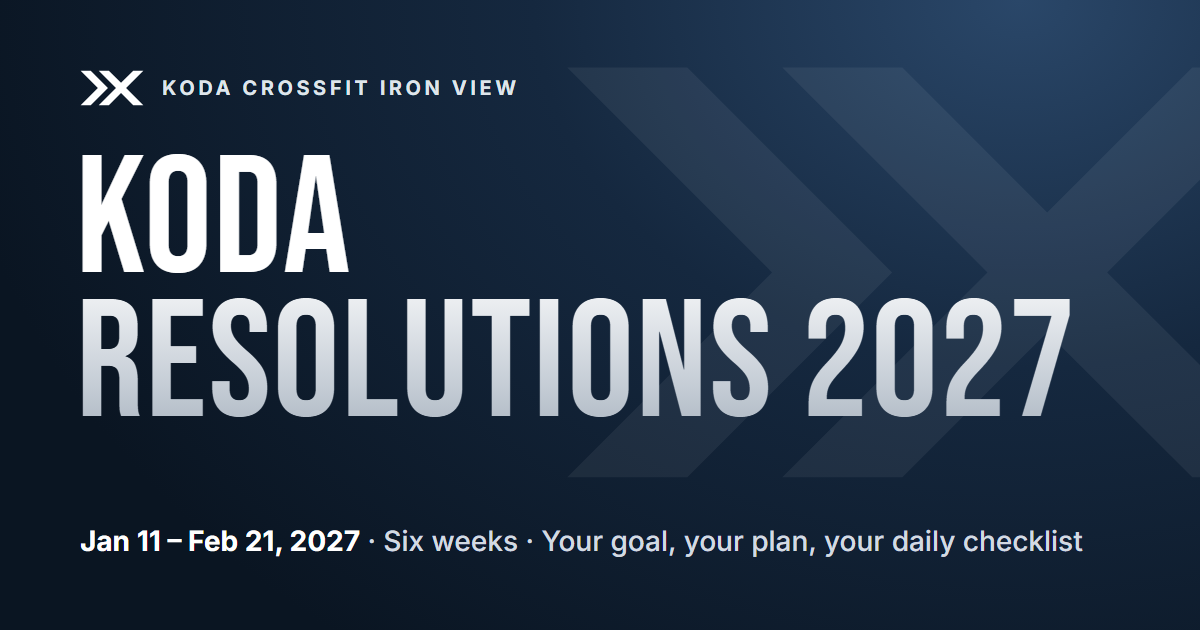
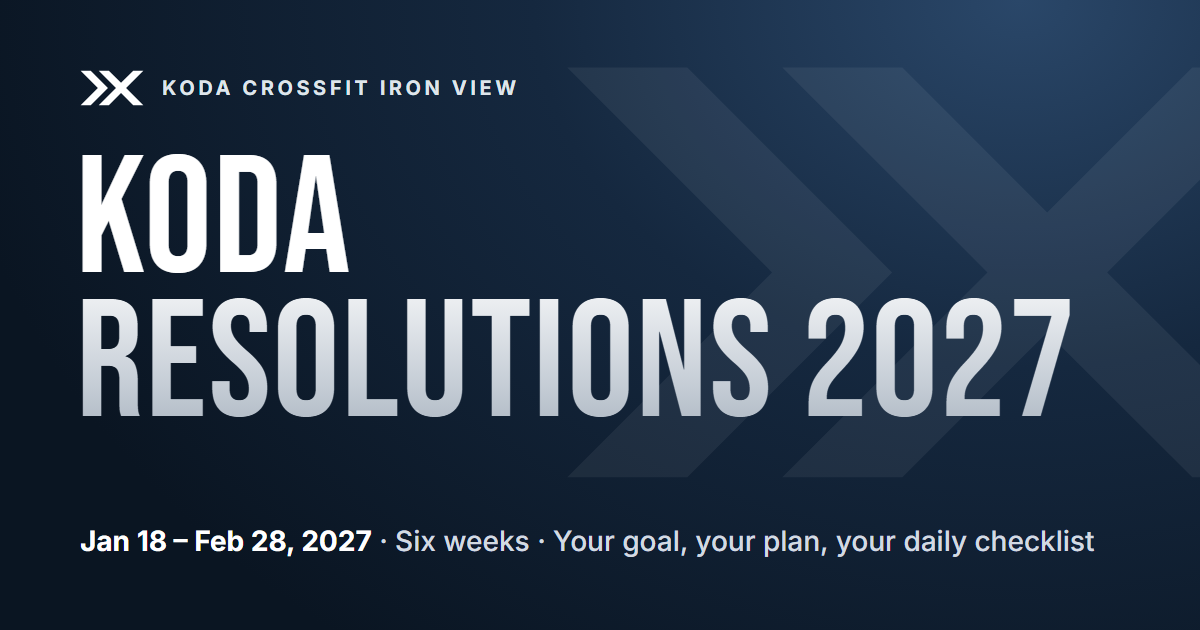
Move the challenge to Jan 18 - Feb 28, 2027
Kevin moved the start a week later. MLK Day is now Day 1, so Day 5 plans an
ordinary first weekend. The Valentine's / Super Bowl / Presidents' Day weekend
now falls on Days 27-29, so the three-day-weekend video moves to Fri Day 26,
and the Thu-Sat videos of weeks 4 and 5 trade places to keep Brice's HRV,
zone 2 and breathing run on consecutive days. Day 35 drops its holiday
wording and the Wig Wednesday tips swap so the travel tip lands before the
long weekend.

Code defaults, tests, docs and the share image follow the new dates
(backend 1.1.1, hyrox web app @64). Asset versions bumped to v=3.

Changed region(s): [[0.1233, 0.8444, 0.925, 0.9048]]

diff --git a/tests/api.test.js b/tests/api.test.js
@@ -65,8 +65,8 @@ test('register builds the account, the participant row and a token', () => {
   assert.equal(me.person.shirt, 'tank');
   assert.deepEqual(me.person.setup.coaches, ['Maggie', 'Kevin']);
   assert.equal(me.program.phase, 'before');
-  assert.equal(me.program.start, '2027-01-11');
-  assert.equal(me.program.end, '2027-02-21');
+  assert.equal(me.program.start, '2027-01-18');
+  assert.equal(me.program.end, '2027-02-28');
   assert.ok(me.preview.length >= 9, 'preview checklist has every tracked item');
 
   const people = gas.rows('Participants');
@@ -168,12 +168,12 @@ test('reset by emailed code', () => {
 test('daily check-ins: scoring, edit window, the sheet log', () => {
   const { gas, post } = world();
   const r = register(post);
-  gas.setNow('2027-01-13T19:30:00-07:00'); // Day 3
+  gas.setNow('2027-01-20T19:30:00-07:00'); // Day 3
   let me = post({ action: 'me', token: r.token }).me;
   assert.equal(me.program.phase, 'during');
   assert.equal(me.program.dayNumber, 3);
-  assert.deepEqual(Object.keys(me.checklists).sort(), ['2027-01-11', '2027-01-12', '2027-01-13']);
-  const list = me.checklists['2027-01-13'];
+  assert.deepEqual(Object.keys(me.checklists).sort(), ['2027-01-18', '2027-01-19', '2027-01-20']);
+  const list = me.checklists['2027-01-20'];
   const ids = list.map((i) => i.id);
   assert.deepEqual(ids.slice(0, 2), ['video', 'nutrition']);
   assert.ok(ids.includes('bonus'), 'Day 3 has the coach-goals bonus in the seed');
@@ -181,7 +181,7 @@ test('daily check-ins: scoring, edit window, the sheet log', () => {
   list.forEach((item) => item.units.forEach((u) => (answers[u[0]] = 1)));
   answers['nutrition:snack'] = 0;
   answers['bogus'] = 1;
-  const saved = post({ action: 'save', token: r.token, date: '2027-01-13', answers });
+  const saved = post({ action: 'save', token: r.token, date: '2027-01-20', answers });
   assert.equal(saved.ok, true, saved.error);
   assert.equal(saved.entry.a.bogus, undefined);
   const items = list.filter((i) => !i.units.every((u) => u[2]));
@@ -193,16 +193,16 @@ test('daily check-ins: scoring, edit window, the sheet log', () => {
   assert.equal(saved.totals.points, saved.entry.p);
   // edit again: one row, not two
   answers['nutrition:snack'] = 1;
-  assert.equal(post({ action: 'save', token: r.token, date: '2027-01-13', answers }).entry.d, items.length);
+  assert.equal(post({ action: 'save', token: r.token, date: '2027-01-20', answers }).entry.d, items.length);
   const log = gas.rows('Check-ins');
   assert.equal(log.length, 1);
   assert.match(log[0]['Answers'], /Meals 4\/4/);
   assert.equal(log[0]['Day'], 3);
   // window: two days back is fine, three is not, tomorrow is not
-  assert.equal(post({ action: 'save', token: r.token, date: '2027-01-11', answers: { video: 1 } }).ok, true);
-  gas.setNow('2027-01-14T08:00:00-07:00');
-  assert.equal(post({ action: 'save', token: r.token, date: '2027-01-11', answers: { video: 1 } }).code, 'locked_day');
-  assert.equal(post({ action: 'save', token: r.token, date: '2027-01-15', answers: { video: 1 } }).code, 'locked_day');
+  assert.equal(post({ action: 'save', token: r.token, date: '2027-01-18', answers: { video: 1 } }).ok, true);
+  gas.setNow('2027-01-21T08:00:00-07:00');
+  assert.equal(post({ action: 'save', token: r.token, date: '2027-01-18', answers: { video: 1 } }).code, 'locked_day');
+  assert.equal(post({ action: 'save', token: r.token, date: '2027-01-22', answers: { video: 1 } }).code, 'locked_day');
   me = post({ action: 'me', token: r.token }).me;
   assert.equal(Object.keys(me.history).length, 2);
   assert.equal(me.totals.days, 2);
@@ -213,27 +213,27 @@ test('daily check-ins: scoring, edit window, the sheet log', () => {
 test('the client date is trusted within a day, not further', () => {
   const { gas, post } = world();
   const r = register(post);
-  gas.setNow('2027-01-13T23:30:00-07:00');
-  assert.equal(post({ action: 'me', token: r.token, today: '2027-01-14' }).me.program.today, '2027-01-14');
-  assert.equal(post({ action: 'me', token: r.token, today: '2027-01-20' }).me.program.today, '2027-01-13');
+  gas.setNow('2027-01-20T23:30:00-07:00');
+  assert.equal(post({ action: 'me', token: r.token, today: '2027-01-21' }).me.program.today, '2027-01-21');
+  assert.equal(post({ action: 'me', token: r.token, today: '2027-01-27' }).me.program.today, '2027-01-20');
 });
 
 test('changing the setup mid-challenge updates today, keeps earlier days', () => {
   const { gas, post } = world();
   const r = register(post);
-  gas.setNow('2027-01-12T19:00:00-07:00');
-  post({ action: 'save', token: r.token, date: '2027-01-11', answers: { video: 1, workout: 1, sleep: 1 } });
-  post({ action: 'save', token: r.token, date: '2027-01-12', answers: { video: 1, workout: 1, mobility: 1 } });
+  gas.setNow('2027-01-19T19:00:00-07:00');
+  post({ action: 'save', token: r.token, date: '2027-01-18', answers: { video: 1, workout: 1, sleep: 1 } });
+  post({ action: 'save', token: r.token, date: '2027-01-19', answers: { video: 1, workout: 1, mobility: 1 } });
   const next = Object.assign({}, SETUP, { track: Object.assign({}, SETUP.track, { mobility: false, skill: false }) });
   const up = post({ action: 'setup', token: r.token, setup: next, shirt: 'tee', size: 'L' });
   assert.equal(up.ok, true, up.error);
   const me = up.me;
   assert.equal(me.person.shirt, 'tee');
   assert.equal(me.person.size, 'L');
-  assert.ok(!me.checklists['2027-01-12'].some((i) => i.id === 'mobility'), 'today follows the new setup');
-  assert.equal(me.history['2027-01-12'].a.mobility, undefined);
-  assert.equal(me.history['2027-01-12'].a.workout, 1, 'answers that still apply are kept');
-  assert.ok(me.checklists['2027-01-11'].some((i) => i.id === 'mobility'), 'yesterday keeps its own list');
+  assert.ok(!me.checklists['2027-01-19'].some((i) => i.id === 'mobility'), 'today follows the new setup');
+  assert.equal(me.history['2027-01-19'].a.mobility, undefined);
+  assert.equal(me.history['2027-01-19'].a.workout, 1, 'answers that still apply are kept');
+  assert.ok(me.checklists['2027-01-18'].some((i) => i.id === 'mobility'), 'yesterday keeps its own list');
 });
 
 test('removed participants are signed out', () => {
@@ -253,13 +253,13 @@ test('test accounts can preview a challenge day', () => {
   const settings = gas.sheet('Settings');
   const values = settings.getDataRange().getValues();
   const row = values.findIndex((r) => r[0] === 'preview_today') + 1;
-  settings.getRange(row, 2).setValue('2027-01-20');
+  settings.getRange(row, 2).setValue('2027-01-27');
   gas.state.cache.clear();
   const login = post({ action: 'login', email: 'kevin+test@example.com', password: 'secret1' });
-  assert.equal(login.me.program.today, '2027-01-20');
+  assert.equal(login.me.program.today, '2027-01-27');
   assert.equal(login.me.program.dayNumber, 10);
   assert.equal(login.me.program.preview, true);
-  assert.equal(post({ action: 'save', token: login.token, date: '2027-01-20', answers: { video: 1 } }).ok, true);
+  assert.equal(post({ action: 'save', token: login.token, date: '2027-01-27', answers: { video: 1 } }).ok, true);
 });
 
 test('admin actions need the key; summary counts people', () => {
@@ -297,9 +297,9 @@ test("purging test accounts removes their rows and nobody else's", () => {
   const { gas, post } = world();
   const keep = register(post, { email: 'keep@b.co' });
   const gone = register(post, { email: 'gone@b.co' });
-  gas.setNow('2027-01-12T19:00:00-07:00');
-  post({ action: 'save', token: keep.token, date: '2027-01-12', answers: { video: 1 } });
-  post({ action: 'save', token: gone.token, date: '2027-01-12', answers: { video: 1 } });
+  gas.setNow('2027-01-19T19:00:00-07:00');
+  post({ action: 'save', token: keep.token, date: '2027-01-19', answers: { video: 1 } });
+  post({ action: 'save', token: gone.token, date: '2027-01-19', answers: { video: 1 } });
   post({ action: 'adminSetType', key: ADMIN, email: 'gone@b.co', participantType: 'Test' });
   const r = post({ action: 'adminPurgeTests', key: ADMIN });
   assert.deepEqual(r.removed, { participants: 1, accounts: 1, appdata: 1, checkins: 1 });

diff --git a/tests/review.test.js b/tests/review.test.js
@@ -51,9 +51,9 @@ test("sorting Participants (any way) never mixes up people's setup or history", 
   const { gas, post } = world();
   const zed = register(post, { email: 'zed@b.co', first: 'Zed', last: 'Zulu', setup: Object.assign({}, SETUP, { goal: 'performance' }) });
   const amy = register(post, { email: 'amy@b.co', first: 'Amy', last: 'Alpha', setup: Object.assign({}, SETUP, { goal: 'fatloss' }) });
-  gas.setNow('2027-01-12T19:00:00-07:00');
-  post({ action: 'save', token: zed.token, date: '2027-01-12', answers: { video: 1 } });
-  post({ action: 'save', token: amy.token, date: '2027-01-12', answers: { video: 1, workout: 1 } });
+  gas.setNow('2027-01-19T19:00:00-07:00');
+  post({ action: 'save', token: zed.token, date: '2027-01-19', answers: { video: 1 } });
+  post({ action: 'save', token: amy.token, date: '2027-01-19', answers: { video: 1, workout: 1 } });
   const sheet = gas.sheet('Participants');
   const width = sheet.getLastColumn();
   const rows = sheet.getRange(2, 1, 2, width).getValues();
@@ -62,9 +62,9 @@ test("sorting Participants (any way) never mixes up people's setup or history", 
   const a = post({ action: 'me', token: amy.token }).me;
   assert.equal(z.person.setup.goal, 'performance');
   assert.equal(a.person.setup.goal, 'fatloss');
-  assert.equal(z.history['2027-01-12'].p, 3);
-  assert.equal(a.history['2027-01-12'].p, 5);
-  assert.equal(post({ action: 'save', token: zed.token, date: '2027-01-12', answers: { video: 1, sleep: 1 } }).entry.p, 4);
+  assert.equal(z.history['2027-01-19'].p, 3);
+  assert.equal(a.history['2027-01-19'].p, 5);
+  assert.equal(post({ action: 'save', token: zed.token, date: '2027-01-19', answers: { video: 1, sleep: 1 } }).entry.p, 4);
   const people = gas.rows('Participants');
   assert.equal(people.find((p) => p.Email === 'zed@b.co').Points, 4);
   assert.equal(people.find((p) => p.Email === 'amy@b.co').Points, 5);
@@ -90,13 +90,13 @@ test('if App Data gets scrambled, the app refuses instead of overwriting someone
 test('made-up dates are refused and never count', () => {
   const { gas, post } = world();
   const r = register(post);
-  gas.setNow('2027-02-01T19:00:00-07:00');
+  gas.setNow('2027-02-08T19:00:00-07:00');
   for (const date of ['2027-01-32', '2027-01-99', '2027-02-00', '2027-13-01']) {
     const s = post({ action: 'save', token: r.token, date, answers: { video: 1 } });
     assert.equal(s.ok, false, date);
   }
   const fake = post({ action: 'me', token: r.token, today: '2027-01-32' }).me;
-  assert.equal(fake.program.today, '2027-02-01');
+  assert.equal(fake.program.today, '2027-02-08');
   assert.equal(fake.totals.points, 0);
 });
 
@@ -154,17 +154,17 @@ test("welcome email: reserve for Koda's other pages, logged and shown when not s
 test('a bonus Kevin adds after someone checked in still reaches them', () => {
   const { gas, post } = world();
   const r = register(post);
-  gas.setNow('2027-01-15T07:00:00-07:00');
-  post({ action: 'save', token: r.token, date: '2027-01-15', answers: { video: 1 } });
+  gas.setNow('2027-01-22T07:00:00-07:00');
+  post({ action: 'save', token: r.token, date: '2027-01-22', answers: { video: 1 } });
   const days = gas.sheet('Days');
   const headers = days.getRange(1, 1, 1, days.getLastColumn()).getValues()[0];
   days.getRange(6, headers.indexOf('Bonus Task') + 1).setValue('Post a photo of your meal prep');
   days.getRange(6, headers.indexOf('Bonus Points') + 1).setValue(4);
   gas.state.cache.clear();
-  gas.setNow('2027-01-15T12:00:00-07:00');
+  gas.setNow('2027-01-22T12:00:00-07:00');
   const me = post({ action: 'me', token: r.token }).me;
-  assert.ok(me.checklists['2027-01-15'].some((i) => i.id === 'bonus'));
-  const s = post({ action: 'save', token: r.token, date: '2027-01-15', answers: { bonus: 1 }, patch: true });
+  assert.ok(me.checklists['2027-01-22'].some((i) => i.id === 'bonus'));
+  const s = post({ action: 'save', token: r.token, date: '2027-01-22', answers: { bonus: 1 }, patch: true });
   assert.equal(s.entry.a.bonus, 1);
   assert.equal(s.entry.a.video, 1, 'patch keeps the earlier answer');
   assert.equal(s.entry.p, 7);
@@ -173,11 +173,11 @@ test('a bonus Kevin adds after someone checked in still reaches them', () => {
 test("two phones saving the same day keep each other's answers (patch saves)", () => {
   const { gas, post } = world();
   const r = register(post);
-  gas.setNow('2027-01-13T19:00:00-07:00');
-  post({ action: 'save', token: r.token, date: '2027-01-13', answers: { video: 1, 'nutrition:m2': 1 }, patch: true });
-  const s = post({ action: 'save', token: r.token, date: '2027-01-13', answers: { workout: 1 }, patch: true });
+  gas.setNow('2027-01-20T19:00:00-07:00');
+  post({ action: 'save', token: r.token, date: '2027-01-20', answers: { video: 1, 'nutrition:m2': 1 }, patch: true });
+  const s = post({ action: 'save', token: r.token, date: '2027-01-20', answers: { workout: 1 }, patch: true });
   assert.deepEqual(Object.keys(s.entry.a).sort(), ['nutrition:m2', 'video', 'workout']);
-  const cleared = post({ action: 'save', token: r.token, date: '2027-01-13', answers: { video: null }, patch: true });
+  const cleared = post({ action: 'save', token: r.token, date: '2027-01-20', answers: { video: null }, patch: true });
   assert.equal(cleared.entry.a.video, undefined);
   assert.equal(cleared.entry.a.workout, 1);
 });

diff --git a/dev/build-days.js b/dev/build-days.js
@@ -45,15 +45,15 @@ const PRESENTER = {
   1: 'Kevin', 2: 'Kevin', 3: 'Kevin', 4: '', 5: 'Kevin', 6: 'Maggie & Riley', 7: 'Maggie', 8: 'Molly Moore', 9: 'Kevin',
   10: 'The Wig Wednesday crew', 11: 'Maggie', 12: 'Jamie', 13: 'Jamie', 14: 'The coaches', 15: 'Kevin', 16: 'Riley',
   17: 'The Wig Wednesday crew', 18: '', 19: 'Maggie', 20: 'Riley', 21: 'Kevin', 22: 'Jamie', 23: 'Kevin',
-  24: 'The Wig Wednesday crew', 25: 'Brice', 26: 'Brice', 27: 'Brice', 28: 'The coaches', 29: 'Riley & Maggie', 30: 'Riley',
-  31: 'The Wig Wednesday crew', 32: 'Kevin', 33: 'Jamie', 34: 'Kevin', 35: 'Maggie', 36: 'Kevin', 37: 'Kevin',
+  24: 'The Wig Wednesday crew', 25: 'Kevin', 26: 'Jamie', 27: 'Kevin', 28: 'The coaches', 29: 'Riley & Maggie', 30: 'Riley',
+  31: 'The Wig Wednesday crew', 32: 'Brice', 33: 'Brice', 34: 'Brice', 35: 'Maggie', 36: 'Kevin', 37: 'Kevin',
   38: 'All four coaches', 39: 'Jamie', 40: 'Kevin', 41: 'Riley', 42: 'Kevin',
 };
 
 const ACTION = {
   1: 'Do your baseline tester and take private before photos (front, side and back).',
   3: 'Tonight, turn screens off 30 minutes before bed and pick a lights-out time.',
-  5: 'Plan the long weekend now: the events, what you’ll order, and your first on-plan meal afterward.',
+  5: 'Plan the weekend now: the events, what you’ll order, and your first on-plan meal afterward.',
   8: 'Build dinner by hand tonight: a palm of protein, a fist of veggies, a cupped hand of carbs, a thumb of fat.',
   9: 'Work out your protein target (about 0.7–1 g per pound of goal bodyweight) and eat a palm of protein first at every meal today.',
   10: 'Send your team captain one win from your week for next week’s shout-outs.',
@@ -62,11 +62,11 @@ const ACTION = {
   15: 'Write the “minimum version” of each item on your checklist for tough days.',
   16: 'Start the carb experiment: notice how tonight’s carbs affect your energy and hunger.',
   24: 'Share one non-scale win with your team.',
-  25: 'Rate your readiness 1–5 this morning (or check your HRV) and match today’s workout to it.',
-  27: 'Do 3–5 minutes of box breathing tonight.',
+  26: 'Write down your weekend plan: what you’ll eat and drink, and your first on-plan meal afterward.',
   29: 'Re-film your skill or mobility clip and set a target for Day 41.',
   31: 'Cheer on a teammate who’s had a tough week.',
-  33: 'Write down your weekend plan: what you’ll eat and drink, and your first on-plan meal afterward.',
+  32: 'Rate your readiness 1–5 this morning (or check your HRV) and match today’s workout to it.',
+  34: 'Do 3–5 minutes of box breathing tonight.',
   35: 'Set your 7-for-7 goal for the final week.',
   36: 'Write down the three habits that gave you the most.',
   38: 'Tell your team your 7-for-7 finish goal.',

diff --git a/apps-script/Resolutions27.js b/apps-script/Resolutions27.js
@@ -22,7 +22,7 @@
  * everywhere") bumps Token Version, which ends every older token.
  */
 
-var RES27_VERSION = '1.1.0 (2026-11-09)';
+var RES27_VERSION = '1.1.1 (2026-11-09)';
 var RES27_TZ = 'America/Denver';
 var RES27_SHEET_PROP = 'RES27_SHEET_ID';
 var RES27_SECRET_PROP = 'RES27_SECRET';
@@ -128,7 +128,7 @@ var RES27_TABS = {
 
 var RES27_SETTINGS_DEFAULTS = [
   ['program_name', 'Koda Resolutions 2027', 'The name at the top of the app'],
-  ['start_date', '2027-01-11', 'Day 1 of the challenge, typed like 2027-01-11'],
+  ['start_date', '2027-01-18', 'Day 1 of the challenge, typed like 2027-01-18'],
   ['length_days', 42, 'How many days the challenge runs'],
   ['registration_open', true, 'FALSE stops new sign-ups (signing in keeps working)'],
   ['remote_price', 99, 'What a remote participant pays, in dollars'],
@@ -144,7 +144,7 @@ var RES27_SETTINGS_DEFAULTS = [
   ['welcome_email', true, 'TRUE sends a welcome email after sign-up'],
   ['notify_email', '', 'Optional: also email this address about every new sign-up'],
   ['show_upcoming_titles', false, 'TRUE shows the titles of videos that have not unlocked yet'],
-  ['preview_today', '', 'Test accounts (Type = Test on Participants) see this date as today, e.g. 2027-01-14. Blank = the real date'],
+  ['preview_today', '', 'Test accounts (Type = Test on Participants) see this date as today, e.g. 2027-01-21. Blank = the real date'],
 ];
 var RES27_RETIRED_SETTINGS = ['venmo_url'];
 
@@ -682,7 +682,7 @@ function res27YouTubeId_(url) {
 }
 
 function res27Program_(cfg, person, clientToday) {
-  var start = res27ParseDateKey_(cfg.start_date) || '2027-01-11';
+  var start = res27ParseDateKey_(cfg.start_date) || '2027-01-18';
   var length = Math.max(1, Math.min(120, parseInt(cfg.length_days, 10) || 42));
   var end = res27AddDays_(start, length - 1);
   var serverToday = res27TodayKey_();
@@ -1910,7 +1910,7 @@ function res27WriteDays_(book, days, overwrite) {
   RES27_REQ_.headers = {};
   RES27_REQ_.sheets = {};
   var cfg = res27Settings_();
-  var start = res27ParseDateKey_(cfg.start_date) || '2027-01-11';
+  var start = res27ParseDateKey_(cfg.start_date) || '2027-01-18';
   var headers = res27Headers_('days');
   var rows = days.slice(0, 120).map(function (x) {
     var n = parseInt(x.day, 10);

diff --git a/tests/e2e.js b/tests/e2e.js
@@ -24,7 +24,7 @@ const get = (p) => fetch(BASE + p).then((r) => r.json());
 const wait = (ms) => new Promise((r) => setTimeout(r, ms));
 
 (async () => {
-  await get('/dev/reset?demo=1&at=' + encodeURIComponent('2027-01-20T19:30:00-07:00'));
+  await get('/dev/reset?demo=1&at=' + encodeURIComponent('2027-01-27T19:30:00-07:00'));
   const browser = await chromium.launch();
   const errors = [];
 
@@ -94,10 +94,10 @@ const wait = (ms) => new Promise((r) => setTimeout(r, ms));
   let mine = rows.filter((r) => r.Name === 'Taylor Brooks');
   check('taps saved to the sheet', mine.length === 1 && /Meals 4\/4/.test(mine[0].Answers) && /Daily workout ✓/.test(mine[0].Answers), mine[0] && mine[0].Answers);
   await page.click('[data-act="answer"][data-key="sleep"][data-val="1"]');
-  await page.goto(BASE + '/#/day/2027-01-19');
+  await page.goto(BASE + '/#/day/2027-01-26');
   await wait(1500);
   const shown = await page.getAttribute('#checklistCard', 'data-date');
-  check('a save finishing elsewhere does not repaint another day', shown === '2027-01-19', shown);
+  check('a save finishing elsewhere does not repaint another day', shown === '2027-01-26', shown);
   rows = await get('/dev/rows?tab=Check-ins');
   mine = rows.filter((r) => r.Name === 'Taylor Brooks');
   check('the tap made just before leaving still saved', mine.length === 1 && /Slept .*✓/.test(mine[0].Answers), mine[0] && mine[0].Answers);
@@ -109,7 +109,7 @@ const wait = (ms) => new Promise((r) => setTimeout(r, ms));
   check('Today offers yesterday when it is not filled in', !!gap);
   await page.evaluate(() => {
     const c = JSON.parse(localStorage.getItem('res27.me'));
-    c.loadedDay = '2027-01-01';
+    c.loadedDay = '2027-01-08';
     localStorage.setItem('res27.me', JSON.stringify(c));
   });
   let slow = true;

diff --git a/index.html b/index.html
@@ -15,7 +15,7 @@
   <meta property="og:description" content="Six weeks. Your goal, your nutrition plan and your own daily checklist, with the Koda community in your corner.">
   <meta property="og:type" content="website">
   <meta property="og:url" content="https://koda-crossfit.github.io/resolutions/">
-  <meta property="og:image" content="https://koda-crossfit.github.io/resolutions/assets/og.png">
+  <meta property="og:image" content="https://koda-crossfit.github.io/resolutions/assets/og.png?v=3">
   <meta name="twitter:card" content="summary_large_image">
   <link rel="icon" href="assets/favicon.svg" type="image/svg+xml">
   <link rel="apple-touch-icon" href="assets/apple-touch-icon.png">
@@ -23,12 +23,12 @@
   <link rel="preconnect" href="https://fonts.googleapis.com">
   <link rel="preconnect" href="https://fonts.gstatic.com" crossorigin>
   <link href="https://fonts.googleapis.com/css2?family=Bebas+Neue&family=Inter:wght@400;500;600;700;800&display=swap" rel="stylesheet">
-  <link rel="stylesheet" href="assets/app.css?v=2">
+  <link rel="stylesheet" href="assets/app.css?v=3">
 </head>
 <body>
   <div id="app"><div class="loading-screen"><svg class="mark" viewBox="0 0 2000 1118" aria-hidden="true"><polygon points="19,20 335,20 874,559 335,1098 19,1098 558,559"/><polygon points="585,20 901,20 1282,401 1664,20 1980,20 1440,559 1980,1098 1664,1098 1282,717 901,1098 585,1098 1125,559"/></svg></div></div>
   <noscript><p style="padding:24px;font-family:sans-serif">Koda Resolutions needs JavaScript turned on.</p></noscript>
-  <script src="assets/content.js?v=2"></script>
-  <script src="assets/app.js?v=2"></script>
+  <script src="assets/content.js?v=3"></script>
+  <script src="assets/app.js?v=3"></script>
 </body>
 </html>

diff --git a/dev/graphics/og.html b/dev/graphics/og.html
@@ -15,5 +15,5 @@ p b{color:#fff}
 <svg class="wm" viewBox="0 0 2000 1118"><polygon points="19,20 335,20 874,559 335,1098 19,1098 558,559"/><polygon points="585,20 901,20 1282,401 1664,20 1980,20 1440,559 1980,1098 1664,1098 1282,717 901,1098 585,1098 1125,559"/></svg>
 <div class="top"><svg viewBox="0 0 2000 1118"><polygon points="19,20 335,20 874,559 335,1098 19,1098 558,559"/><polygon points="585,20 901,20 1282,401 1664,20 1980,20 1440,559 1980,1098 1664,1098 1282,717 901,1098 585,1098 1125,559"/></svg><span>Koda CrossFit Iron View</span></div>
 <h1>Koda<br><span class="s">Resolutions 2027</span></h1>
-<p><b>Jan 11 – Feb 21, 2027</b> · Six weeks · Your goal, your plan, your daily checklist</p>
+<p><b>Jan 18 – Feb 28, 2027</b> · Six weeks · Your goal, your plan, your daily checklist</p>
 </body></html>

diff --git a/assets/app.js b/assets/app.js
@@ -99,7 +99,7 @@
   /* ============================================================ state */
 
   var DEFAULT_CONFIG = {
-    programName: 'Koda Resolutions 2027', startDate: '2027-01-11', endDate: '2027-02-21', lengthDays: 42, registrationOpen: true,
+    programName: 'Koda Resolutions 2027', startDate: '2027-01-18', endDate: '2027-02-28', lengthDays: 42, registrationOpen: true,
     remotePrice: 99, venmo: '@kevin-schuetz-5', venmoUrl: 'https://venmo.com/u/kevin-schuetz-5', zelle: 'kodaironview@gmail.com', cardUrl: '',
     coaches: ['Kevin', 'Riley', 'Jamie', 'Maggie'], contactEmail: 'kodaironview@gmail.com', siteUrl: '', cookbookUrl: '', editDaysBack: 2,
     sizes: { tee: ['XS', 'S', 'M', 'L', 'XL', '2XL', '3XL'], tank: ['XS', 'S', 'M', 'L', 'XL', '2XL'] }, sleepChoices: [6, 6.5, 7, 7.5, 8, 8.5, 9],

diff --git a/dev/server.js b/dev/server.js
@@ -91,7 +91,7 @@ function addDemo(at) {
   });
   if (!reg.ok) throw new Error('demo register failed: ' + reg.error);
   let token = reg.token;
-  const start = new Date('2027-01-11T20:00:00-07:00');
+  const start = new Date('2027-01-18T20:00:00-07:00');
   for (let d = new Date(start); d < now && d.toDateString() !== now.toDateString(); d = new Date(d.getTime() + 86400000)) {
     gas.setNow(d.toISOString());
     const me = post({ action: 'me', token }).me;

diff --git a/README.md b/README.md
@@ -1,7 +1,7 @@
 # Koda Resolutions 2027
 
 The member app for Koda CrossFit Iron View's six-week nutrition and lifestyle challenge
-(Jan 11 – Feb 21, 2027). People sign up as a **Current Koda Member** or a **Remote Participant**
+(Jan 18 – Feb 28, 2027). People sign up as a **Current Koda Member** or a **Remote Participant**
 ($99), answer a short intake, and get their own daily checklist. Every day they open the app,
 watch a short video and tap Yes or No on each habit. Answers save as they tap.
 
@@ -53,10 +53,10 @@ Changes to Settings and Days show in the app within about a minute.
 - **Forgot password:** people reset it themselves with an emailed 6-digit code. If email fails
   they're told to email the contact address.
 
-### Trying it as a participant before Jan 11
+### Trying it as a participant before Jan 18
 
 Sign up with your own email, then set that row's `Type` to `Test` and put a date like
-`2027-01-14` in `preview_today` (Settings). That account now sees Day 4 and can check in.
+`2027-01-21` in `preview_today` (Settings). That account now sees Day 4 and can check in.
 Test rows stay out of the summary. Clear every test account before launch with the
 `adminPurgeTests` request (below).
 
@@ -76,7 +76,7 @@ node --test tests/api.test.js tests/review.test.js   # backend tests (27)
 node tests/e2e.js             # browser walkthrough + screenshots (needs the dev server)
 ```
 
-Dev-only URLs: `/dev/reset?demo=1&at=2027-01-20T19:30:00-07:00` (fresh world plus a demo
+Dev-only URLs: `/dev/reset?demo=1&at=2027-01-27T19:30:00-07:00` (fresh world plus a demo
 member, `demo@koda.test` / `koda2027`, with check-ins), `/dev/time?set=ISO`, `/dev/emails`,
 `/dev/rows?tab=Participants`, `/dev/as?email=…&password=…&to=%23%2Fprogress` (signs a browser in),
 `/dev/slow?ms=900`. `dev/shot.ps1` takes headless-Edge screenshots of any page.
